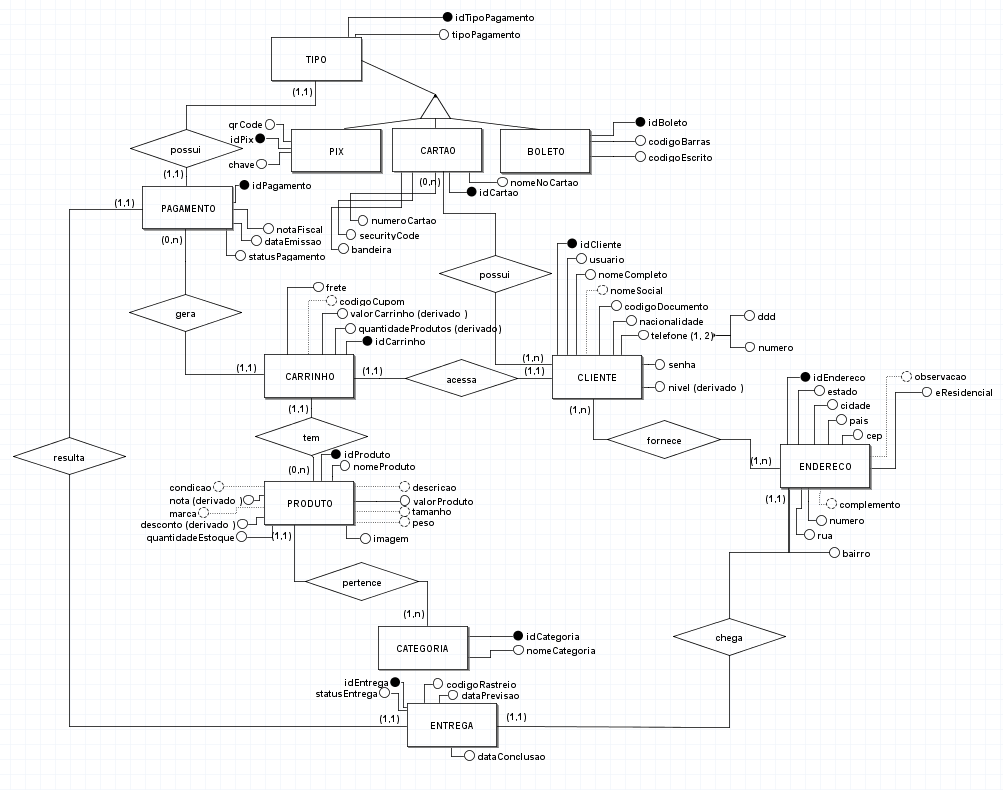
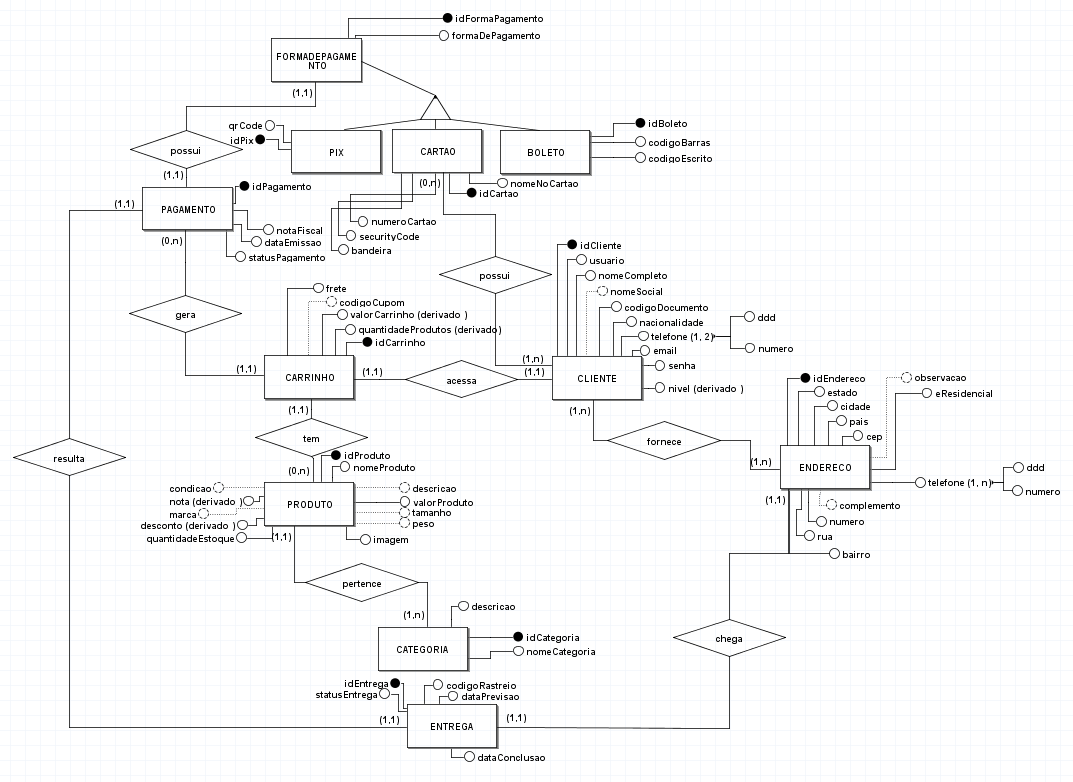
Corrigindo MER e DER

diff --git a/docs/ArquiteturaReutilizacao/4.1.5.Dados.md b/docs/ArquiteturaReutilizacao/4.1.5.Dados.md
@@ -32,7 +32,7 @@ As Entidades e atributos que compõem o MER e o Diagrama Entidade Relacionamento
 
     • PAGAMENTO
 
-    • TIPO
+    • FORMADEPAGAMENTO
 
     • PIX
 
@@ -46,20 +46,20 @@ As Entidades e atributos que compõem o MER e o Diagrama Entidade Relacionamento
 
     • fornece(idCliente, idEndereco)
 
-    • ENDERECO(idEndereco, estado, cidade, pais, cep, observacao, eResidencial, complemento, numero, rua, bairro)
+    • ENDERECO(idEndereco, estado, cidade, pais, cep, observacao, eResidencial, complemento, numero, rua, bairro, {telefone})
 
     • ENTREGA(idEntrega, statusEntrega, codigoRastreio, dataPrevisao, dataConclusao, idPagamento, idEndereco)
 
-    • CATEGORIA(idCategoria, nomeCategoria)
+    • CATEGORIA(idCategoria, nomeCategoria, descricao)
 
     • PRODUTO(idProduto, nomeProduto, descricao, valorProduto, tamanho, peso, imagem, condicao, marca, quantidadeEstoque, idCategoria, idCarrinho)
 
     • CARRINHO(idCarrinho, frete, codigoCupom)
 
-    • PAGAMENTO(idPagamento, notaFiscal, dataEmissao, statusPagamento, idCarrinho, idTipo)
+    • PAGAMENTO(idPagamento, notaFiscal, dataEmissao, statusPagamento, idCarrinho, idFormaPagamento)
 
-    • TIPO(idTipoPagamento, tipoPagamento)
-	    - PIX(idPix, qrCode, chave)
+    • FORMADEPAGAMENTO(idFormaPagamento, FormaDePagamento)
+	    - PIX(idPix, qrCode)
 	    - CARTAO(idCartao, nomeNoCartao, numeroCartao, securityCode, bandeira)
 	    - BOLETO(idBoleto, codigoBarras, codigoEscrito)
 
@@ -81,15 +81,17 @@ As Entidades e atributos que compõem o MER e o Diagrama Entidade Relacionamento
 
     • ENTREGA - chega - ENDERECO (1,1)
 
-    • PAGAMENTO - possui - TIPO (1,1)
+    • PAGAMENTO - possui - FORMADEPAGAMENTO (1,1)
 
 
 ## Diagrama Entidade Relacionamento
 
-<img src="./IMG/VisaoDados/DER.png" width="700" height="">
+<img src="./IMG/VisaoDados/Der.png" width="900" height="">
 <figcaption align="center" >Imagem - Diagrama Entidade Relacionamento(Fluxo Perfil Comprador, Fluxo de Compras). Fonte: Breno Henrique </figcaption>
+<br><br>
 
 | Versão | Data  |                 Alteração                 |      Participantes       |
 | :----: | :---: | :---------------------------------------: | :----------------------: |
 |  1.0   | 20/06 |        Criação do documento da visão de dados        | Giulia |
-|  2.0   | 22/06 | Adição da visão de dados | Breno |
+|  2.0   | 22/06 | Adição da visão de dados                             | Breno  |
+|  3.0   | 02/07 | Correção do MER e DER                                | Breno  |
